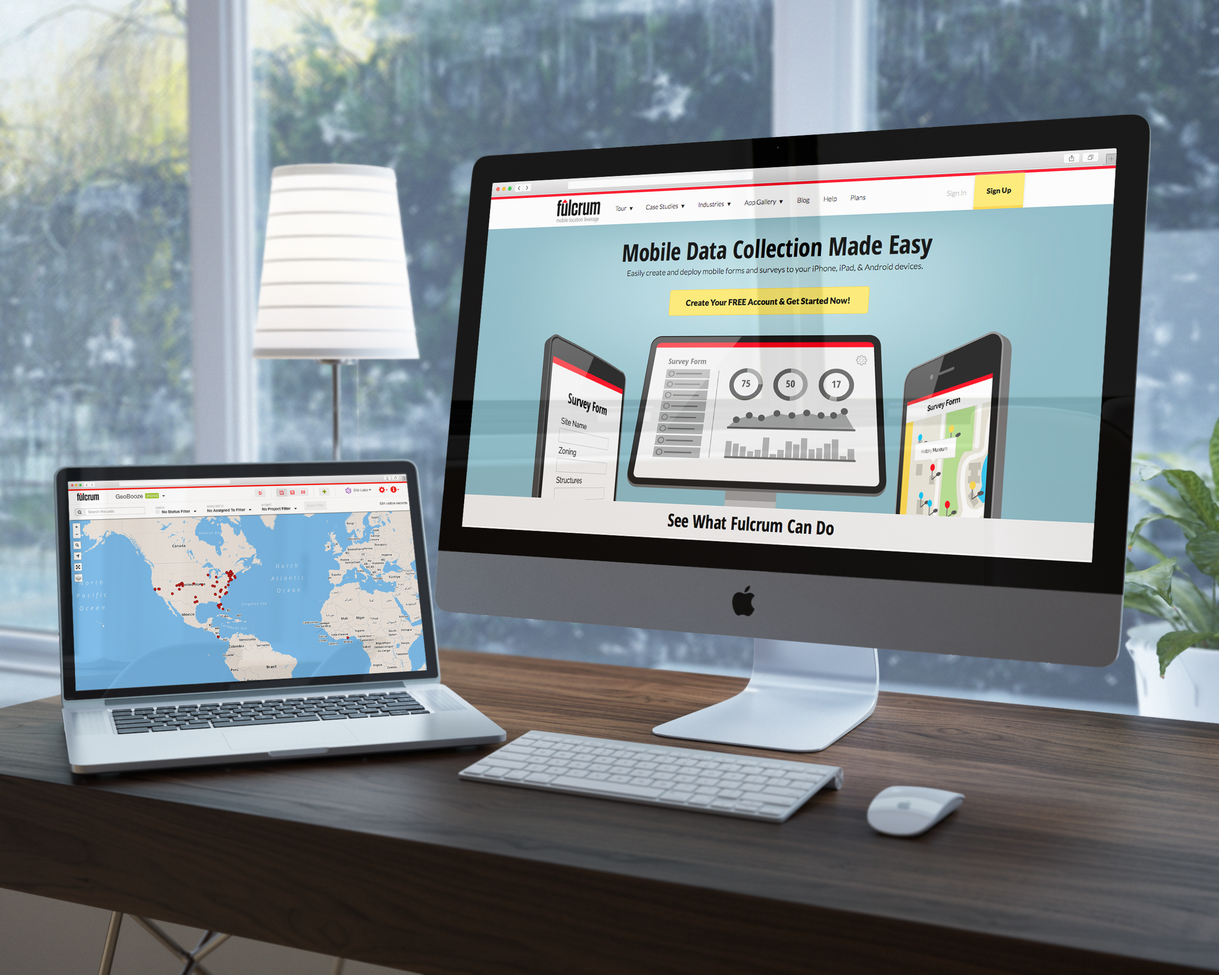
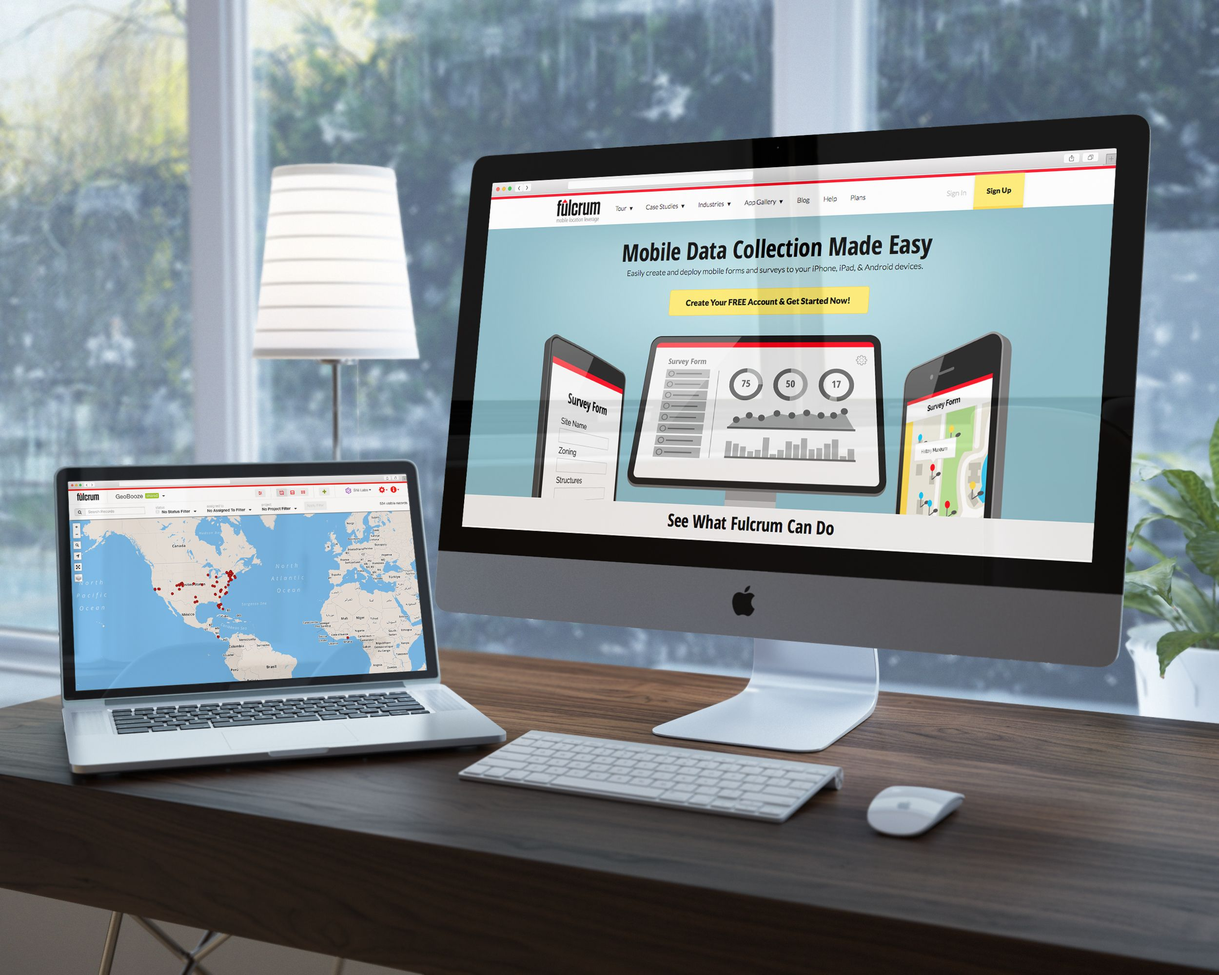
Optimize all images and convert to progressive jpegs

diff --git a/about.md b/about.md
@@ -8,4 +8,4 @@ Tony Gaeta is a 7th generation Floridian and was born and raised in [St. Petersb
 
 Tony is married and has a two and half year old son named Ty and is expecting his second son in early Spring 2016. His hobbies include learning something new, coding, video games, fishing, and attending Tampa Bay Rays, Lightning, and Rowdies games. Follow him on [GitHub](https://www.github.com/tgaeta) and [Twitter](https://www.twitter.com/tgaeta).
 
-<img class="profile-image" src="/images/tonygaeta.png">
+<img class="profile-image" src="/images/tonygaeta.jpg">
